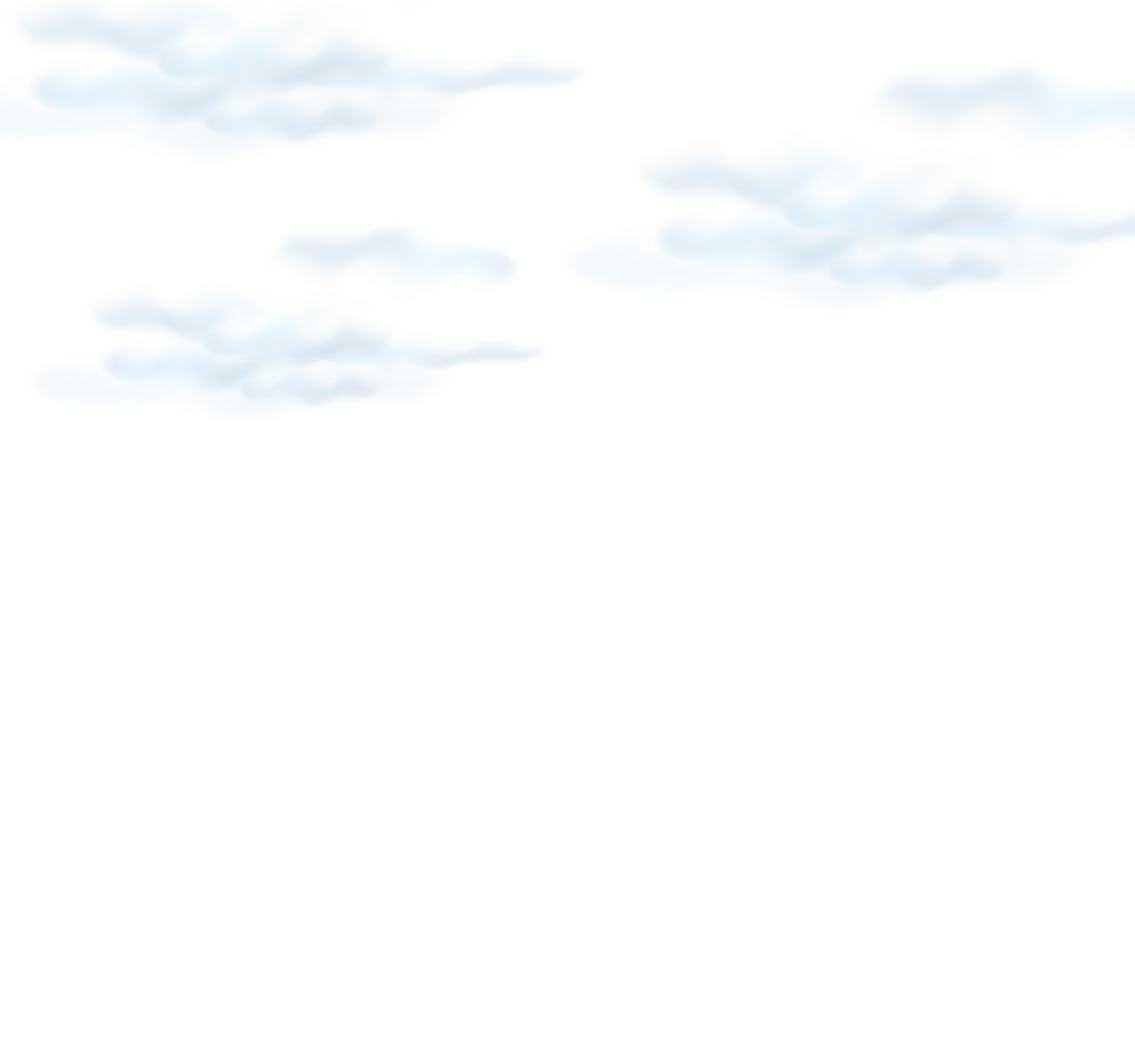
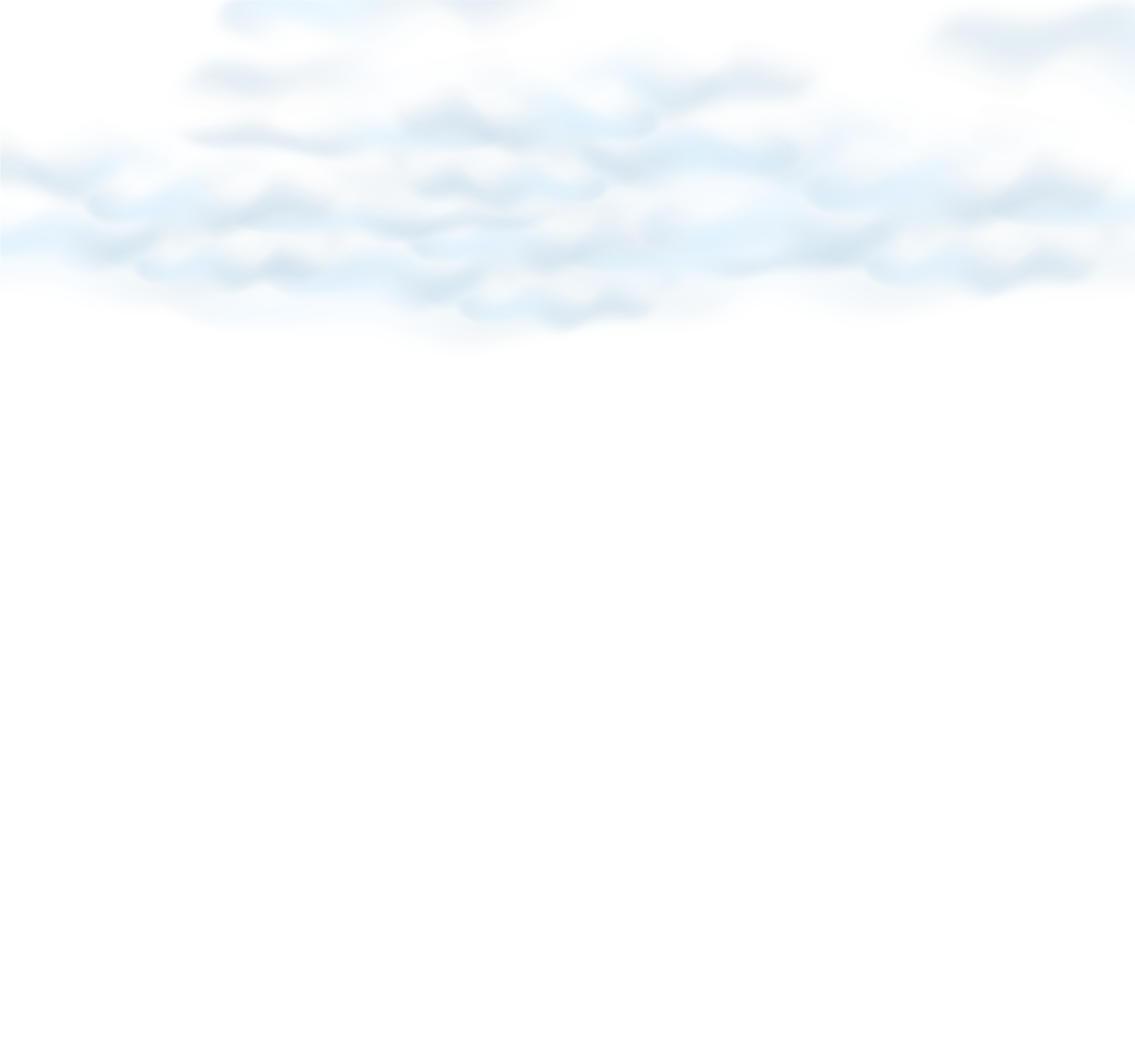
Mostly done with the scenes!

diff --git a/webpages/index.html b/webpages/index.html
@@ -8,14 +8,18 @@
     <link rel="stylesheet" href="./css/style.css">
 </head>
 
-<body style="margin: 0; background-color:deepskyblue;">  
+<body style="margin: 0; background-color:black;">  
     <div id="scene1-buffer">
         <div style="height: 700px;"></div>
     </div>
     <div id="scene1">
-        <div class="parallax-container1" style="height: 1643px; width: auto;">
+        <div class="parallax-container1" style="height: 1700px; width: auto;">
             <canvas data-1300="top:0%" data-0="top:50%" id="canvasLeaves" style="z-index: 5; position: absolute; margin-left: auto; margin-right: auto; left: 0; right: 0; text-align: center;"></canvas>
-            <div class="" data-1300="top:35%" data-0="top:-45%" style="z-index: -1; position: absolute; margin-left: auto; margin-right: auto; left: 0; right: 0; text-align: center;"> <img src="./img/BGSummer/BGSummerSky.png"></div>
+            <div class="" data-1300="opacity: 0; top:35%" data-0="opacity: 1; top:-45%" style="z-index: -1; position: absolute; margin-left: auto; margin-right: auto; left: 0; right: 0; text-align: center;"> <img src="./img/BGSummer/BGSummerSkyNight.png"></div>
+            <div class="" data-1300="opacity: 1; top:35%" data-0="opacity: 0; top:-45%" style="z-index: -1; position: absolute; margin-left: auto; margin-right: auto; left: 0; right: 0; text-align: center;"> <img src="./img/BGSummer/BGSummerSky.png"></div>
+            <div class="" data-1300="opacity: 0; top:-10%" data-0="opacity: 1; top:-45%" style="position: absolute; margin-left: auto; margin-right: auto; left: 0; right: 0; text-align: center;"> <img src="./img/BGSummer/BGSummerSkyStar2.png"></div>
+            <div class="" data-1300="opacity: 0; top:-10%" data-800="" data-0="opacity: 1; top:-45%" style="position: absolute; margin-left: auto; margin-right: auto; left: 0; right: 0; text-align: center;"> <img src="./img/BGSummer/BGSummerSkyStar1.png"></div>
+            <div class="" data-1300="top:-35%" data-0="top:05%" style="z-index: -1; position: absolute; margin-left: auto; margin-right: auto; left: 0; right: 0; text-align: center;"> <img src="./img/BGSummer/BGSummerSkySun.png"></div>
             <div class="" data-1300="top:-10%" data-0="top:-45%" style="position: absolute; margin-left: auto; margin-right: auto; left: 0; right: 0; text-align: center;"> <img src="./img/BGSummer/BGSummerClouds.png"></div>
             <div class="" data-1300="top:0%" data-0="top:00%" style="position: absolute; margin-left: auto; margin-right: auto; left: 0; right: 0; text-align: center;"> <img src="./img/BGSummer/BGSummerMountainTop.png"></div>
             <div class="" data-1500="opacity: 0;" data-1400="opacity: 1;" data-1300="top:0%" data-0="top:10%" style="position: absolute; margin-left: auto; margin-right: auto; left: 0; right: 0; text-align: center;"> <img src="./img/BGSummer/BGSummerMountainBottom.png"></div>
@@ -24,25 +28,25 @@
             <div class="" data-1500="opacity: 0;" data-1400="opacity: 1;" data-1300="top:0%" data-0="top:40%" style="position: absolute; margin-left: auto; margin-right: auto; left: 0; right: 0; text-align: center;"> <img src="./img/BGSummer/BGSummerPlainTop.png"></div>
             <div class="" data-1500="opacity: 0;" data-1400="opacity: 1;" data-1300="top:0%" data-0="top:50%" style="z-index: 1; position: absolute; margin-left: auto; margin-right: auto; left: 0; right: 0; text-align: center;"> <img src="./img/BGSummer/BGSummerPlainBottom.png"></div>
             <div class="" data-1500="opacity: 0;" data-1400="opacity: 1;" data-1300="top:0%" data-0="top:50%" style="z-index: 1; position: absolute; margin-left: auto; margin-right: auto; left: 0; right: 0; text-align: center;"> <img src="./img/BGSummer/BGSummerTree.png"></div>
-            <div class="" data-1500="opacity: 0;" data-1400="opacity: 1;" data-1300="top:13%" data-0="top:13%" style="z-index: 6; position: absolute; margin-left: auto; margin-right: auto; left: 0; right: 0; text-align: center;"> <img src="./img/BGSummer/BGSummerBush.png"></div>
-            <!--This is the autumn change-->
+            <div class="" data-1500="opacity: 0;" data-1400="opacity: 1;" data-0="top:13%" style="z-index: 6; position: absolute; margin-left: auto; margin-right: auto; left: 0; right: 0; text-align: center;"> <img src="./img/BGSummer/BGSummerBush.png"></div>
+            <!--This is the Autumn change-->
             <div class="" data-1500="opacity: 1;" data-1400="opacity: 0; top:0%" data-0="opacity: 0;" style="position: absolute; margin-left: auto; margin-right: auto; left: 0; right: 0; text-align: center;"> <img src="./img/BGFall/BGFallMountainBottom.png"></div>
             <div class="" data-1500="opacity: 1;" data-1400="opacity: 0; top:0%" data-0="opacity: 0;" style="position: absolute; margin-left: auto; margin-right: auto; left: 0; right: 0; text-align: center;"> <img src="./img/BGFall/BGFallTreeTop.png"></div>
             <div class="" data-1500="opacity: 1;" data-1400="opacity: 0; top:0%" data-0="opacity: 0;" style="position: absolute; margin-left: auto; margin-right: auto; left: 0; right: 0; text-align: center;"> <img src="./img/BGFall/BGFallTreeBottom.png"></div>
             <div class="" data-1500="opacity: 1;" data-1400="opacity: 0; top:0%" data-0="opacity: 0;" style="position: absolute; margin-left: auto; margin-right: auto; left: 0; right: 0; text-align: center;"> <img src="./img/BGFall/BGFallPlainTop.png"></div>
             <div class="" data-1500="opacity: 1;" data-1400="opacity: 0; top:0%" data-0="opacity: 0;" style="z-index: 1; position: absolute; margin-left: auto; margin-right: auto; left: 0; right: 0; text-align: center;"> <img src="./img/BGFall/BGFallPlainBottom.png"></div>
             <div class="" data-1500="opacity: 1;" data-1400="opacity: 0; top:0%" data-0="opacity: 0;" style="z-index: 1; position: absolute; margin-left: auto; margin-right: auto; left: 0; right: 0; text-align: center;"> <img src="./img/BGFall/BGFallTree.png"></div>
-            <div class="" data-1500="opacity: 1;" data-1400="opacity: 0;" data-1300="top:13%" data-0="top:13%" style="z-index: 6; position: absolute; margin-left: auto; margin-right: auto; left: 0; right: 0; text-align: center;"> <img src="./img/BGFall/BGFallBush.png"></div>
+            <div class="" data-1500="opacity: 1;" data-1400="opacity: 0;" data-0="top:13%" style="z-index: 6; position: absolute; margin-left: auto; margin-right: auto; left: 0; right: 0; text-align: center;"> <img src="./img/BGFall/BGFallBush.png"></div>
         </div>
     </div>
     <div id="scene2-buffer">
         <div style="height: 700px;"></div>
     </div>
     <div id="scene2">
-        <div class="parallax-container1" style="height: 1643px; width: auto;">
-            <canvas data-3700="top:0%" data-2400="top:0%" id="canvasSnow" style="z-index: 99; position: absolute; margin-left: auto; margin-right: auto; left: 0; right: 0; text-align: center;"></canvas>
-            <div class="" data-3700="top:35%" data-2400="top:-45%" style="z-index: -1; position: absolute; margin-left: auto; margin-right: auto; left: 0; right: 0; text-align: center;"> <img src="./img/BGWinter/BGWinterSky.png"></div>
-            <div class="" data-3700="top:-10%" data-2400="top:-45%" style="position: absolute; margin-left: auto; margin-right: auto; left: 0; right: 0; text-align: center;"> <img src="./img/BGWinter/BGWinterClouds.png"></div>
+        <div class="parallax-container1" style="height: 1700px; width: auto;">
+            <canvas data-3700="top:10%" data-2400="top:-45%" id="canvasSnow" style="z-index: 4; position: absolute; margin-left: auto; margin-right: auto; left: 0; right: 0; text-align: center;"></canvas>
+            <div class="" data-3700="top:10%" data-2400="top:-45%" style="z-index: 3; position: absolute; margin-left: auto; margin-right: auto; left: 0; right: 0; text-align: center;"> <img src="./img/BGWinter/BGWinterClouds.png"></div>
+            <div class="" data-3700="top:35%" data-2400="top:-45%" style="z-index: -1; position: absolute; margin-left: auto; margin-right: auto; left: 0; right: 0; text-align: center;"> <img src="./img/BGSummer/BGSummerSky.png"></div>
             <div class="" data-3900="opacity: 0;" data-3800="opacity: 1;" data-3700="top:0%" data-2400="top:00%" style="position: absolute; margin-left: auto; margin-right: auto; left: 0; right: 0; text-align: center;"> <img src="./img/BGWinter/BGWinterMountainTop.png"></div>
             <div class="" data-3900="opacity: 0;" data-3800="opacity: 1;" data-3700="top:0%" data-2400="top:10%" style="position: absolute; margin-left: auto; margin-right: auto; left: 0; right: 0; text-align: center;"> <img src="./img/BGWinter/BGWinterMountainBottom.png"></div>
             <div class="" data-3900="opacity: 0;" data-3800="opacity: 1;" data-3700="top:0%" data-2400="top:20%" style="position: absolute; margin-left: auto; margin-right: auto; left: 0; right: 0; text-align: center;"> <img src="./img/BGWinter/BGWinterTreeTop.png"></div>
@@ -50,7 +54,7 @@
             <div class="" data-3900="opacity: 0;" data-3800="opacity: 1;" data-3700="top:0%" data-2400="top:40%" style="position: absolute; margin-left: auto; margin-right: auto; left: 0; right: 0; text-align: center;"> <img src="./img/BGWinter/BGWinterPlainTop.png"></div>
             <div class="" data-3900="opacity: 0;" data-3800="opacity: 1;" data-3700="top:0%" data-2400="top:50%" style="z-index: 4; position: absolute; margin-left: auto; margin-right: auto; left: 0; right: 0; text-align: center;"> <img src="./img/BGWinter/BGWinterPlainBottom.png"></div>
             <div class="" data-3900="opacity: 0;" data-3800="opacity: 1;" data-3700="top:0%" data-2400="top:50%" style="z-index: 4; position: absolute; margin-left: auto; margin-right: auto; left: 0; right: 0; text-align: center;"> <img src="./img/BGWinter/BGWinterTree.png"></div>
-            <div class="" data-3900="opacity: 0;" data-3800="opacity: 1;" data-3700="top:13%" data-2400="top:13%" style="z-index: 6; position: absolute; margin-left: auto; margin-right: auto; left: 0; right: 0; text-align: center;"> <img src="./img/BGWinter/BGWinterBush.png"></div>
+            <div class="" data-3900="opacity: 0;" data-3800="opacity: 1;" data-2400="top:13%" style="z-index: 6; position: absolute; margin-left: auto; margin-right: auto; left: 0; right: 0; text-align: center;"> <img src="./img/BGWinter/BGWinterBush.png"></div>
             <!--This is the Spring change-->
             <div class="" data-3900="opacity: 1;" data-3800="opacity: 0; top:0%" data-0="opacity: 0;" style="position: absolute; margin-left: auto; margin-right: auto; left: 0; right: 0; text-align: center;"> <img src="./img/BGSpring/BGSpringMountainTop.png"></div>
             <div class="" data-3900="opacity: 1;" data-3800="opacity: 0; top:0%" data-0="opacity: 0;" style="position: absolute; margin-left: auto; margin-right: auto; left: 0; right: 0; text-align: center;"> <img src="./img/BGSpring/BGSpringMountainBottom.png"></div>
@@ -59,23 +63,32 @@
             <div class="" data-3900="opacity: 1;" data-3800="opacity: 0; top:0%" data-0="opacity: 0;" style="position: absolute; margin-left: auto; margin-right: auto; left: 0; right: 0; text-align: center;"> <img src="./img/BGSpring/BGSpringPlainTop.png"></div>
             <div class="" data-3900="opacity: 1;" data-3800="opacity: 0; top:0%" data-0="opacity: 0;" style="z-index: 1; position: absolute; margin-left: auto; margin-right: auto; left: 0; right: 0; text-align: center;"> <img src="./img/BGSpring/BGSpringPlainBottom.png"></div>
             <div class="" data-3900="opacity: 1;" data-3800="opacity: 0; top:0%" data-0="opacity: 0;" style="z-index: 1; position: absolute; margin-left: auto; margin-right: auto; left: 0; right: 0; text-align: center;"> <img src="./img/BGSpring/BGSpringTree.png"></div>
-            <div class="" data-3900="opacity: 1;" data-3800="opacity: 0;" data-1300="top:13%" data-0="top:13%" style="z-index: 6; position: absolute; margin-left: auto; margin-right: auto; left: 0; right: 0; text-align: center;"> <img src="./img/BGSpring/BGSpringBush.png"></div>
+            <div class="" data-3900="opacity: 1;" data-3800="opacity: 0;" data-0="top:13%" style="z-index: 6; position: absolute; margin-left: auto; margin-right: auto; left: 0; right: 0; text-align: center;"> <img src="./img/BGSpring/BGSpringBush.png"></div>
         </div>
     </div>
     <div id="scene3-buffer">
-        <div style="height: 700px;"></div>
+        <div style="height: 600px;"></div>
     </div>
     <div id="scene3">
         <div class="parallax-container1" style="height: 1643px; width: auto;">
-            <canvas data-6000="top:0%" data-4700="top:-42%" id="canvasFireFlies" style="z-index: 2; position: absolute; margin-left: auto; margin-right: auto; left: 0; right: 0; text-align: center;"></canvas>
-            <div class="" data-6000="top:35%" data-4700="top:-43%" style="z-index: -1; position: absolute; margin-left: auto; margin-right: auto; left: 0; right: 0; text-align: center;"> <img src="./img/BGSummer/BGSummerSky.png"></div>
-            <div class="" data-6000="top:-10%" data-4700="top:-43%" style="z-index: 3; position: absolute; margin-left: auto; margin-right: auto; left: 0; right: 0; text-align: center;"> <img src="./img/BGSummer/BGSummerClouds.png"></div>
-            <div class="" data-6000="top:0%" data-4700="top:00%" style="position: absolute; margin-left: auto; margin-right: auto; left: 0; right: 0; text-align: center;"> <img src="./img/BGSummer/BGSummerMountainTop.png"></div>
-            <div class="" data-6000="top:0%" data-4700="top:10%" style="position: absolute; margin-left: auto; margin-right: auto; left: 0; right: 0; text-align: center;"> <img src="./img/BGSummer/BGSummerMountainBottom.png"></div>
-            <div class="" data-6000="top:0%" data-4700="top:20%" style="position: absolute; margin-left: auto; margin-right: auto; left: 0; right: 0; text-align: center;"> <img src="./img/BGSummer/BGSummerTreeTop.png"></div>
-            <div class="" data-6000="top:0%" data-4700="top:30%" style="position: absolute; margin-left: auto; margin-right: auto; left: 0; right: 0; text-align: center;"> <img src="./img/BGSummer/BGSummerTreeBottom.png"></div>
-            <div class="" data-6000="top:0%" data-4700="top:40%" style="position: absolute; margin-left: auto; margin-right: auto; left: 0; right: 0; text-align: center;"> <img src="./img/BGSummer/BGSummerPlainTop.png"></div>
-            <div class="" data-6000="top:0%" data-4700="top:50%" style="z-index: 1; position: absolute; margin-left: auto; margin-right: auto; left: 0; right: 0; text-align: center;"> <img src="./img/BGSummer/BGSummerPlainBottom.png"></div>
+            <canvas data-6000="top:0%" data-4700="top:0%" id="canvasPyro" style="z-index: 2; position: absolute; margin-left: auto; margin-right: auto; left: 0; right: 0; text-align: center;"></canvas>
+            <div class="" data-6000="top:35%" data-4700="top:-43%" style="z-index: -1; position: absolute; margin-left: auto; margin-right: auto; left: 0; right: 0; text-align: center;"> <img src="./img/BGSummer/BGSummerSkyNight.png"></div>
+            <div class="" data-6000="opacity: 0; top:-10%" data-4700="opacity: 1; top:-43%" style="position: absolute; margin-left: auto; margin-right: auto; left: 0; right: 0; text-align: center;"> <img src="./img/BGSummer/BGSummerSkyStar2.png"></div>
+            <div class="" data-6000="opacity: 0; top:-10%" data-4700="opacity: 1; top:-43%" style="position: absolute; margin-left: auto; margin-right: auto; left: 0; right: 0; text-align: center;"> <img src="./img/BGSummer/BGSummerSkyStar1.png"></div>
+            <div class="" data-6000="top:0%" data-4700="top:00%" style="position: absolute; margin-left: auto; margin-right: auto; left: 0; right: 0; text-align: center;"> <img src="./img/BGFire/BGFireMountainTop.png"></div>
+            <div class="" data-6000="top:0%" data-4700="top:10%" style="position: absolute; margin-left: auto; margin-right: auto; left: 0; right: 0; text-align: center;"> <img src="./img/BGFire/BGFireMountainBottom.png"></div>
+            <div class="" data-6000="top:0%" data-4700="top:20%" style="position: absolute; margin-left: auto; margin-right: auto; left: 0; right: 0; text-align: center;"> <img src="./img/BGFire/BGFireTreeTop.png"></div>
+            <div class="" data-6200="opacity: 0;" data-6100="opacity: 1;" data-6000="top:0%" data-4700="top:30%" style="z-index: 3; position: absolute; margin-left: auto; margin-right: auto; left: 0; right: 0; text-align: center;"> <img src="./img/BGFire/BGFireTreeBottom.png"></div>
+            <div class="" data-6200="opacity: 0;" data-6100="opacity: 1;" data-6000="top:0%" data-4700="top:40%" style="z-index: 3; position: absolute; margin-left: auto; margin-right: auto; left: 0; right: 0; text-align: center;"> <img src="./img/BGFire/BGFirePlainTop.png"></div>
+            <div class="" data-6200="opacity: 0;" data-6100="opacity: 1;" data-6000="top:0%" data-4700="top:50%" style="z-index: 3; position: absolute; margin-left: auto; margin-right: auto; left: 0; right: 0; text-align: center;"> <img src="./img/BGFire/BGFirePlainBottom.png"></div>
+            <div class="" data-6200="opacity: 0;" data-6100="opacity: 1;" data-6000="top:0%" data-4700="top:50%" style="z-index: 3; position: absolute; margin-left: auto; margin-right: auto; left: 0; right: 0; text-align: center;"> <img src="./img/BGFire/BGFireTree.png"></div>
+            <div class="" data-6200="opacity: 0;" data-6100="opacity: 1;" data-4700="top:13%" style="z-index: 3; position: absolute; margin-left: auto; margin-right: auto; left: 0; right: 0; text-align: center;"> <img src="./img/BGFire/BGFireBush.png"></div>
+            <!--This is the Fire change-->
+            <div class="" data-6200="opacity: 1;" data-6100="opacity: 0; top:0%" data-0="opacity: 0;" style="z-index: 3; position: absolute; margin-left: auto; margin-right: auto; left: 0; right: 0; text-align: center;"> <img src="./img/BGFinal/BGFinalTreeBottom.png"></div>
+            <div class="" data-6200="opacity: 1;" data-6100="opacity: 0; top:0%" data-0="opacity: 0;" style="z-index: 3; position: absolute; margin-left: auto; margin-right: auto; left: 0; right: 0; text-align: center;"> <img src="./img/BGFinal/BGFinalPlainTop.png"></div>
+            <div class="" data-6200="opacity: 1;" data-6100="opacity: 0; top:0%" data-0="opacity: 0;" style="z-index: 3; position: absolute; margin-left: auto; margin-right: auto; left: 0; right: 0; text-align: center;"> <img src="./img/BGFinal/BGFinalPlainBottom.png"></div>
+            <div class="" data-6200="opacity: 1;" data-6100="opacity: 0; top:0%" data-0="opacity: 0;" style="z-index: 3; position: absolute; margin-left: auto; margin-right: auto; left: 0; right: 0; text-align: center;"> <img src="./img/BGFinal/BGFinalTree.png"></div>
+            <div class="" data-6200="opacity: 1;" data-6100="opacity: 0;" data-0="top:13%" style="z-index: 6; position: absolute; margin-left: auto; margin-right: auto; left: 0; right: 0; text-align: center;"> <img src="./img/BGFinal/BGFinalBush.png"></div>
         </div>
     </div>
 </div>
@@ -84,73 +97,36 @@
 </div>
     <div id="scene4">
         <div class="parallax-container1" style="height: 1643px; width: auto;">
-            <canvas data-8400="top:0%" data-7100="top:0%" id="canvasPyro" style="z-index: 2; position: absolute; margin-left: auto; margin-right: auto; left: 0; right: 0; text-align: center;"></canvas>
-            <div class="" data-8400="top:35%" data-7100="top:-45%" style="z-index: -1; position: absolute; margin-left: auto; margin-right: auto; left: 0; right: 0; text-align: center;"> <img src="./img/BGSummer/BGSummerSky.png"></div>
+            <canvas data-8400="top:0%" data-7100="top:42%" id="canvasFireFlies" style="z-index: 2; position: absolute; margin-left: auto; margin-right: auto; left: 0; right: 0; text-align: center;"></canvas>
+            <div class="" data-8400="top:30%" data-7100="top:-45%" style="z-index: -1; position: absolute; margin-left: auto; margin-right: auto; left: 0; right: 0; text-align: center;"> <img src="./img/BGSummer/BGSummerSkyNight.png"></div>
+            <div class="" data-8400="top:-10%" data-7100="top:-45%" style="position: absolute; margin-left: auto; margin-right: auto; left: 0; right: 0; text-align: center;"> <img src="./img/BGSummer/BGSummerSkyStar2.png"></div>
+            <div class="" data-8400="top:-10%" data-7100="top:-45%" style="position: absolute; margin-left: auto; margin-right: auto; left: 0; right: 0; text-align: center;"> <img src="./img/BGSummer/BGSummerSkyStar1.png"></div>
             <div class="" data-8400="top:-10%" data-7100="top:-45%" style="position: absolute; margin-left: auto; margin-right: auto; left: 0; right: 0; text-align: center;"> <img src="./img/BGSummer/BGSummerClouds.png"></div>
-            <div class="" data-8400="top:0%" data-7100="top:00%" style="position: absolute; margin-left: auto; margin-right: auto; left: 0; right: 0; text-align: center;"> <img src="./img/BGSummer/BGSummerMountainTop.png"></div>
-            <div class="" data-8400="top:0%" data-7100="top:10%" style="position: absolute; margin-left: auto; margin-right: auto; left: 0; right: 0; text-align: center;"> <img src="./img/BGSummer/BGSummerMountainBottom.png"></div>
-            <div class="" data-8400="top:0%" data-7100="top:20%" style="position: absolute; margin-left: auto; margin-right: auto; left: 0; right: 0; text-align: center;"> <img src="./img/BGSummer/BGSummerTreeTop.png"></div>
-            <div class="" data-8400="top:0%" data-7100="top:30%" style="z-index: 3; position: absolute; margin-left: auto; margin-right: auto; left: 0; right: 0; text-align: center;"> <img src="./img/BGSummer/BGSummerTreeBottom.png"></div>
-            <div class="" data-8400="top:0%" data-7100="top:40%" style="z-index: 3; position: absolute; margin-left: auto; margin-right: auto; left: 0; right: 0; text-align: center;"> <img src="./img/BGSummer/BGSummerPlainTop.png"></div>
-            <div class="" data-8400="top:0%" data-7100="top:50%" style="z-index: 3; position: absolute; margin-left: auto; margin-right: auto; left: 0; right: 0; text-align: center;"> <img src="./img/BGSummer/BGSummerPlainBottom.png"></div>
+            <div class="" data-8400="top:0%" data-7100="top:00%" style="position: absolute; margin-left: auto; margin-right: auto; left: 0; right: 0; text-align: center;"> <img src="./img/BGFire/BGFireMountainTop.png"></div>
+            <div class="" data-8400="top:0%" data-7100="top:10%" style="position: absolute; margin-left: auto; margin-right: auto; left: 0; right: 0; text-align: center;"> <img src="./img/BGFire/BGFireMountainBottom.png"></div>
+            <div class="" data-8400="top:0%" data-7100="top:20%" style="position: absolute; margin-left: auto; margin-right: auto; left: 0; right: 0; text-align: center;"> <img src="./img/BGFire/BGFireTreeTop.png"></div>
+            <div class="" data-8400="top:0%" data-7100="top:30%" style="z-index: 1; position: absolute; margin-left: auto; margin-right: auto; left: 0; right: 0; text-align: center;"> <img src="./img/BGFinal/BGFinalTreeBottom.png"></div>
+            <div class="" data-8400="top:0%" data-7100="top:40%" style="z-index: 1; position: absolute; margin-left: auto; margin-right: auto; left: 0; right: 0; text-align: center;"> <img src="./img/BGFinal/BGFinalPlainTop.png"></div>
+            <div class="" data-8400="top:0%" data-7100="top:50%" style="z-index: 1; position: absolute; margin-left: auto; margin-right: auto; left: 0; right: 0; text-align: center;"> <img src="./img/BGFinal/BGFinalPlainBottom.png"></div>
+            <div class="" data-8400="top:0%" data-7100="top:50%" style="z-index: 1; position: absolute; margin-left: auto; margin-right: auto; left: 0; right: 0; text-align: center;"> <img src="./img/BGFinal/BGFinalTree.png"></div>
+            <div class="" data-0="top:13%" style="z-index: 3; position: absolute; margin-left: auto; margin-right: auto; left: 0; right: 0; text-align: center;"> <img src="./img/BGFinal/BGFinalBush.png"></div>
+            <!--This is the Life change-->
+            <div class="" data-8600="opacity: 1;" data-8500="opacity: 0;" data-0="top:0%" style="z-index: 1; position: absolute; margin-left: auto; margin-right: auto; left: 0; right: 0; text-align: center;"> <img src="./img/BGFinal/BGFinalTreeLife.png"></div>
         </div>
     </div>
-    <!--
-    <div style="height: 1000px;">
-        <image src="./img/nighttime.jpg" style="position: absolute; z-index: -99; height: 100%; width: 100%;"></image>
-
-        <canvas id="canvasFireFlies"></canvas>
+    <div>        
+    <div style="height: 400px;">
+        <p style="color: white; text-align: center; padding-top: 15%;">
+            Thanks to all from Jeffrey Moreland and his team:<br/>
+            Zachary Tubbs II<br/>
+            Francis Vandinh<br/>
+            Joana Mucogllava<br/>
+            Daniel Sanchez<br/>
+        </p>
     </div>
-    <div style="height: 1000px;">
-        <image src="./img/snow.jpg" style="position: absolute; z-index: -99; height: 100%; width: 100%;"></image>
-
-        <canvas id="canvasSnow"></canvas>
     </div>
-    <div style="height: 1000px; position: relative;">
-        <image src="./img/PyroBG.jpg" style="position: absolute; bottom: 0px; z-index: -99; height: auto; width: 100%;">
-        </image>
-        <image src="./img/PyroFGR.png" style="position: absolute; bottom: 0px; z-index: 1; height: auto; width: 100%;">
-        </image>
-
-        <canvas id="canvasPyro" style="z-index: -2;"></canvas>
-    </div>
--->
-<!-- This is a demo of css keyframes
-    <div style="height: 1000px;">
-
-        <div class = "pickle swinging">
-            <img src="./img/sticker_4.png">
-        </div>
-        <div>
-            <p class="groovy swinging">I'm pickle rick!</p>
-        </div>
-
-    </div>
--->
-
-<!-- This is the first part of the working parallax.js segment
-    <div class="parallax-container1" style="height: 1643px; width: auto;">
-        <ul id="scene1">
-            <li class="layer" data-z-index="1" data-depth="0.00"> <img src="./img/BGSummer/BGSummerSky.png"></li>
-            <li class="layer" data-z-index="2" data-depth="0.10"> <img src="./img/BGSummer/BGSummerClouds.png"></li>
-            <li class="layer" data-z-index="3" data-depth="0.20"> <img src="./img/BGSummer/BGSummerMountainTop.png"></li>
-            <li class="layer" data-z-index="4" data-depth="0.30"> <img src="./img/BGSummer/BGSummerMountainBottom.png"></li>
-            <li class="layer" data-z-index="5" data-depth="0.40"> <img src="./img/BGSummer/BGSummerTreeTop.png"></li>
-            <li class="layer" data-z-index="6" data-depth="0.50"> <img src="./img/BGSummer/BGSummerTreeBottom.png"></li>
-            <li class="layer" data-z-index="7" data-depth="0.60"> <img src="./img/BGSummer/BGSummerPlainTop.png"></li>
-            <li class="layer" data-z-index="8" data-depth="0.70"> <img src="./img/BGSummer/BGSummerPlainBottom.png"></li>
-        </ul>
-    </div>
--->
     <script src="canvas.js"></script>
     <script src="./js/jquery-3.6.0.js"></script>
-<!-- This is the second part of the working parallax.js segment    
-    <script src="./js/parallax.js-1.5.0/parallax.js"></script>
-    <script>
-        var scene = document.getElementById('scene1');
-        var parallax = new Parallax(scene);
-    </script>	
--->
     <script type="text/javascript" src="./js/skrollr.min.js"></script>
 	<script type="text/javascript">
 	    var s = skrollr.init();

diff --git a/webpages/canvas.js b/webpages/canvas.js
@@ -40,7 +40,7 @@ this.window.addEventListener('scroll', function () {
             CanvasInUse.height = window.innerHeight;
             init();
         }
-    } else if (ScrollDistance < 4200 && ScrollDistance > 2000) {
+    } else if (ScrollDistance < 3900 && ScrollDistance > 2000) {
         if (IsLoaded != 2) {
             CanvasContextInUse.clearRect(0, 0, innerWidth, innerHeight);
             IsLoaded = 2;
@@ -50,7 +50,7 @@ this.window.addEventListener('scroll', function () {
             CanvasInUse.height = window.innerHeight;
             init();
         }
-    } else if (ScrollDistance < 6600 && ScrollDistance > 4200) {
+    } else if (ScrollDistance < 5500 && ScrollDistance >= 3900) {
         if (IsLoaded != 1) {
             CanvasContextInUse.clearRect(0, 0, innerWidth, innerHeight);
             IsLoaded = 1;
@@ -60,12 +60,22 @@ this.window.addEventListener('scroll', function () {
             CanvasInUse.height = window.innerHeight;
             init();
         }
-    } else if (ScrollDistance > 6600) {
+    } else if (ScrollDistance <= 6100 && ScrollDistance >= 5500) {
         if (IsLoaded != 3) {
             CanvasContextInUse.clearRect(0, 0, innerWidth, innerHeight);
             IsLoaded = 3;
             CanvasInUse = canvasPyro;
             CanvasContextInUse = cP;
+            CanvasInUse.width = window.innerWidth;
+            CanvasInUse.height = window.innerHeight;
+            init();
+        }
+    } else if (ScrollDistance > 6100) {
+        if (IsLoaded != 1) {
+            CanvasContextInUse.clearRect(0, 0, innerWidth, innerHeight);
+            IsLoaded = 1;
+            CanvasInUse = canvasFireFlies;
+            CanvasContextInUse = cF;
             CanvasInUse.width = window.innerWidth;
             CanvasInUse.height = window.innerHeight;
             init();
